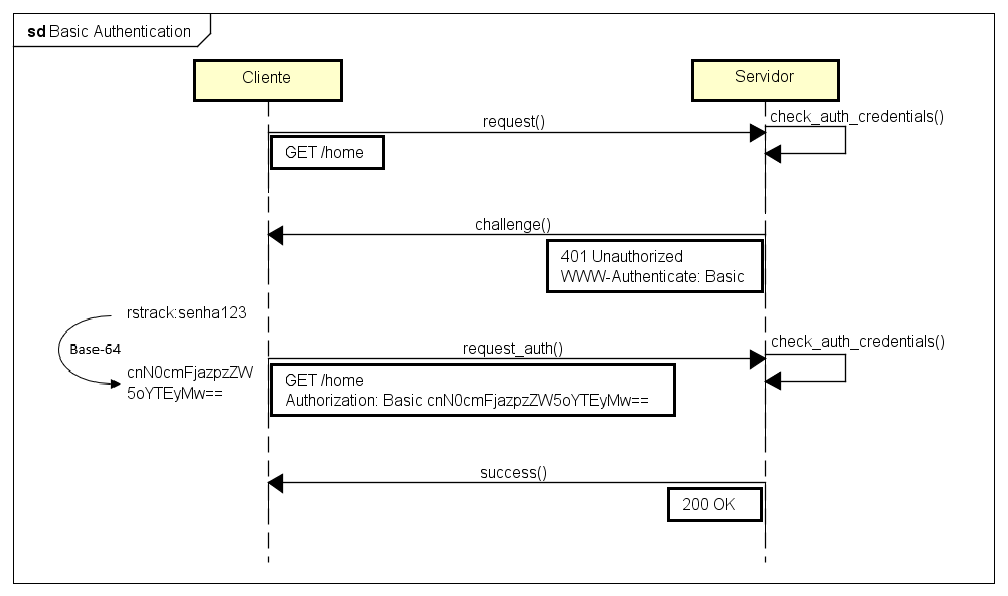
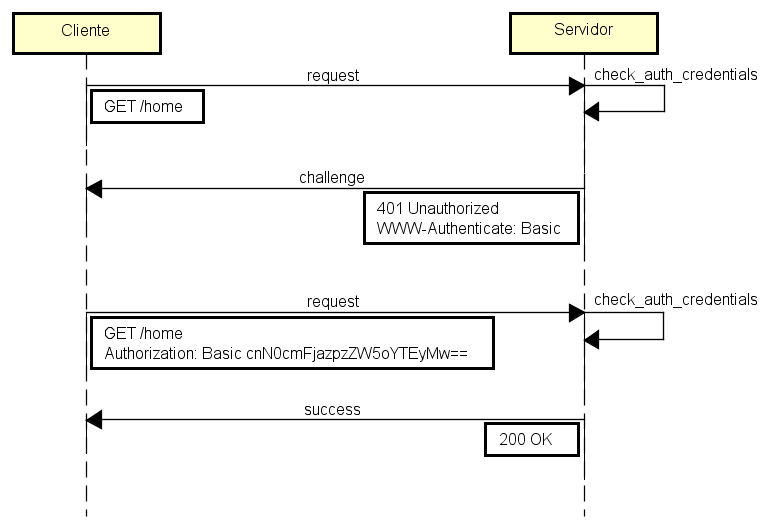
alterações em diagramas de sequência: redução de tamanho no texto, remoção de bordas e de parênteses

diff --git a/Rafael Strack - TCC.tex b/Rafael Strack - TCC.tex
@@ -125,7 +125,7 @@ fará a validação das credenciais e, caso validadas, retorna-se o status HTTP 
 
 \begin{figure}[ht]
   \centering
-  \includegraphics[width=1\textwidth]{Basic Authentication.png}
+  \includegraphics[width=.8\textwidth]{Basic Authentication.png}
   \caption{Exemplo de HTTP Basic Authentication}
   \label{fig:basicAuth}
 \end{figure}
@@ -212,7 +212,7 @@ autenticação é mostrado na Figura \ref{fig:digestAuth}.
 
 \begin{figure}[ht]
   \centering
-  \includegraphics[width=1\textwidth]{Digest Authentication (Simplified).png}
+  \includegraphics[width=.8\textwidth]{Digest Authentication (Simplified).png}
   \caption{Exemplo de HTTP Digest Authentication}
   \label{fig:digestAuth}
 \end{figure}
